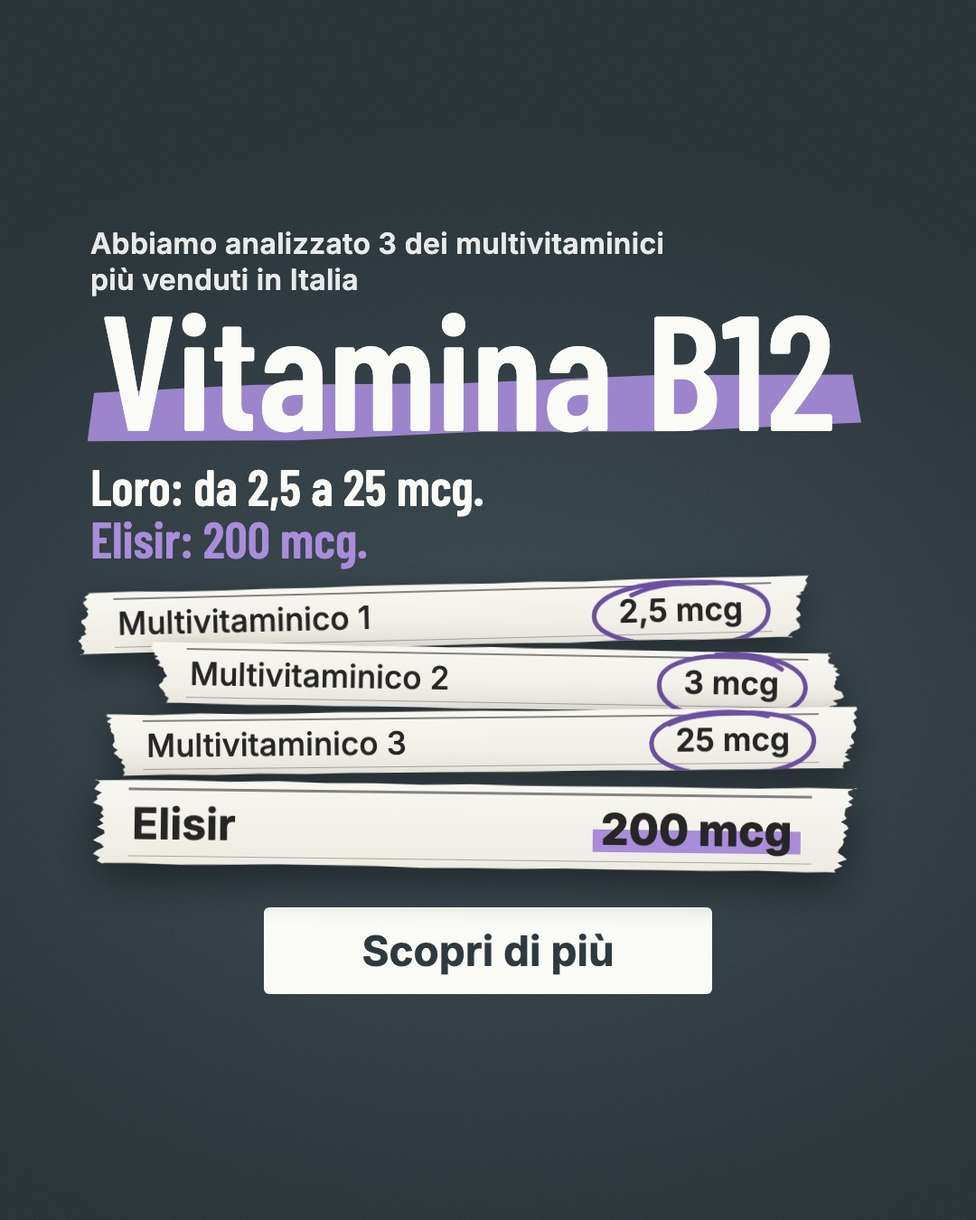
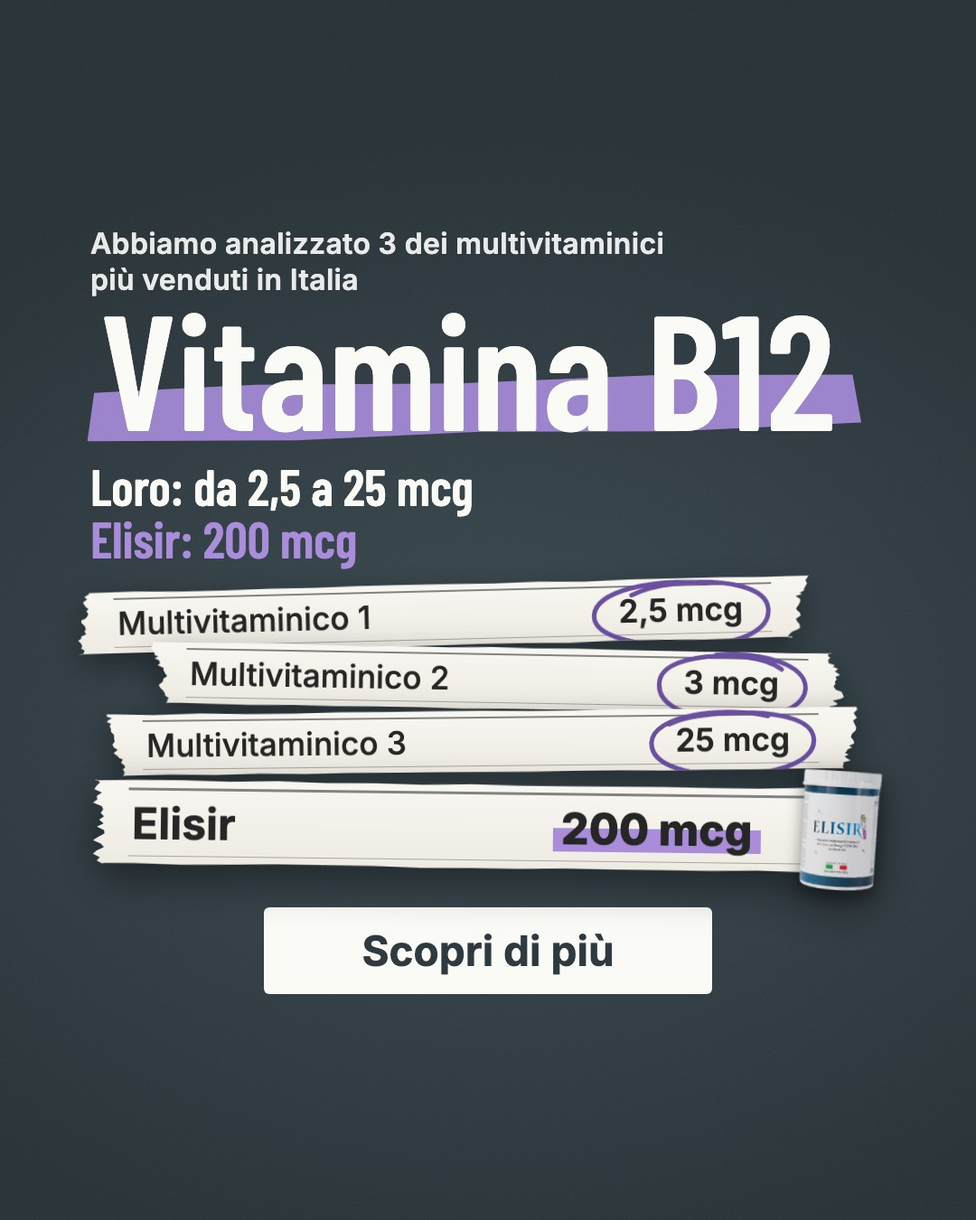
ads: batch #1007, terzo giro (serie senza punti e con barattolino, 222 con +900%, nuova #234)

Changed region(s): [[0.55, 0.6222, 0.9167, 0.7467]]

diff --git a/ads/batch-1007.html b/ads/batch-1007.html
@@ -5,13 +5,14 @@
 <meta name="viewport" content="width=device-width,initial-scale=1">
 <meta name="robots" content="noindex,nofollow">
 <title>Batch #1007 · Test Multinutrienti · Launch kit</title>
-<!-- batch-1007.html v4 · 2026-09-22 · launch kit del batch #1007 Test Multinutrienti.
-     Testi, titoli, descrizione e parametri URL presi da copy/testi-meta.md v1.5; hook, nomi ad e formati da 01-matrice.md v1.7.
+<!-- batch-1007.html v5 · 2026-09-22 · launch kit del batch #1007 Test Multinutrienti.
+     Testi, titoli, descrizione e parametri URL presi da copy/testi-meta.md v1.5; hook, nomi ad e formati da 01-matrice.md v1.8.
      Changelog:
        v1 · prima pubblicazione (FASE 5 Ads OS)
        v2 · 14 creatività #220-#233 con la serie loro/noi (221, 230-233), testi e titoli v1.5, hook e nomi ad della matrice v1.6, JPG rigenerati dai PNG finali
        v3 · anteprime più che raddoppiate (colonna da 230 a 540 px, pagina larga 1240 px), su richiesta di Andrea per leggerle bene
-       v4 · secondo giro di ritocchi di Andrea del 22/9 (matrice v1.7): hook in Title Case nelle card e nella tabella, riferimenti alla matrice portati a v1.7, look della #223 aggiornato (compresse sfocate nello zero, barattolo accanto), JPG 220-233 rigenerati dai PNG finali -->
+       v4 · secondo giro di ritocchi di Andrea del 22/9 (matrice v1.7): hook in Title Case nelle card e nella tabella, riferimenti alla matrice portati a v1.7, look della #223 aggiornato (compresse sfocate nello zero, barattolo accanto), JPG 220-233 rigenerati dai PNG finali
+       v5 · terzo giro di ritocchi di Andrea del 22/9 (matrice v1.8): nuova card #234 (altra versione della #227 con Vitamina D, C e biotina, 1:1, ad set cold) e sua riga in tabella; hook della serie loro/noi senza punti finali, con le righe separate da " / "; #222 col +900% di Vitamina D in Elisir; barattolino sulla quarta striscia della serie; conteggi portati a 15 creatività, 13 cold e 2 warm; affinità del testo A estesa alla #234; JPG 220-234 rigenerati dai PNG finali -->
 <style>
 
   :root{--ground:#F4EFE4;--panel:#FBF8F1;--panel-2:#F0E9D9;--ink:#1B1712;--muted:#6E6455;--faint:#928871;--line:#E4DBC7;--accent:#8B6F47;--ok:#5E7A53;--warn:#A0622D;--shadow:0 1px 2px rgba(27,23,18,.06),0 8px 24px rgba(27,23,18,.06)}
@@ -94,7 +95,7 @@
   <div class="eyebrow">Ads OS · Test Multinutrienti · Launch kit</div>
   <h1>Batch #1007</h1>
   <div class="status" style="color:var(--ok);background:color-mix(in srgb,var(--ok) 15%,transparent)">✓ Montato e verificato, pronto da caricare su Meta</div>
-  <p class="lede"><b>14 creatività (#220-#233): 12 cold solution aware e 2 warm.</b> Le 10 del set principale (#220-#229) hanno 10 sistemi grafici con font display mai usati; le 4 nuove (#230-#233) formano con la #221 la <b>serie loro/noi</b> (Magnesio, Vitamina C, Vitamina D, Vitamina B12, Omega-3): stessa grafica, un colore d’accento per ingrediente. Il cold parla a chi prende già un multivitaminico e gli mostra una cosa verificabile sull’etichetta del prodotto che usa ogni giorno; il bottone manda al confronto completo sulla landing bridge. Il prezzo entra solo nella #228, sul warm; la #229 porta l’offerta senza prezzo.</p>
+  <p class="lede"><b>15 creatività (#220-#234): 13 cold solution aware e 2 warm.</b> Le 10 del set principale (#220-#229) hanno 10 sistemi grafici con font display mai usati; le 4 nuove (#230-#233) formano con la #221 la <b>serie loro/noi</b> (Magnesio, Vitamina C, Vitamina D, Vitamina B12, Omega-3): stessa grafica, un colore d’accento per ingrediente, e il barattolino del prodotto che risponde sulla sua striscia. La <b>#234</b> è un’altra versione della #227, con la stessa grafica e altri tre ingredienti: Vitamina D, Vitamina C e biotina. Il cold parla a chi prende già un multivitaminico e gli mostra una cosa verificabile sull’etichetta del prodotto che usa ogni giorno; il bottone manda al confronto completo sulla landing bridge. Il prezzo entra solo nella #228, sul warm; la #229 porta l’offerta senza prezzo.</p>
   <div class="rules">
     <div class="rule"><b>Testo:</b> carica A + B + C + D + E su ogni inserzione</div>
     <div class="rule"><b>Titoli:</b> 5 + 1 descrizione, uguali per tutte</div>
@@ -107,7 +108,7 @@
 
 
   <h2>1 · Setup inserzione</h2>
-  <p class="sec-sub">Uguale su tutte e 14. Il nome inserzione è sulla card di ogni creatività (sezione 5) e arriva in <code>utm_content</code>.</p>
+  <p class="sec-sub">Uguale su tutte e 15. Il nome inserzione è sulla card di ogni creatività (sezione 5) e arriva in <code>utm_content</code>.</p>
   <div class="tb setup">
     <div class="meta-row" style="margin-top:0"><span class="flabel">CTA</span><span class="val"><b>Scopri di più</b></span><span class="sep"></span><span class="flabel">Destinazione</span><span class="val">la landing di confronto, non una pagina prodotto</span></div>
     <div class="meta-row" style="margin-top:0"><span class="flabel">URL di destinazione</span><code class="adname">https://paleocomplex.com/multinutrienti/</code><button class="cbtn sm" data-copy="https://paleocomplex.com/multinutrienti/">Copia URL</button></div>
@@ -116,7 +117,7 @@
     <div class="params" id="params">utm_source={{site_source_name}}&amp;utm_medium=paid&amp;utm_campaign={{campaign.name}}&amp;utm_term={{adset.name}}&amp;utm_content={{ad.name}}</div>
     <div class="sec-sub" style="margin:0">Nel campo "Parametri URL" dell’inserzione, al posto di quelli attuali.</div>
   </div>
-  <div class="notice"><b>Pubblici, proposta del brief:</b> campagna nuova dedicata al test. Ad set cold con #220-#227 e #230-#233 (12 creatività), clienti degli ultimi 180 giorni esclusi; ad set warm con #228-#229, visitatori ed engager recenti. 50 € al giorno complessivi. Con 12 cold la spesa per creatività si assottiglia, e la serie loro/noi Meta la tratterà con buona probabilità come un gruppo: si legge anche sommata.</div>
+  <div class="notice"><b>Pubblici, proposta del brief:</b> campagna nuova dedicata al test. Ad set cold con #220-#227 e #230-#234 (13 creatività), clienti degli ultimi 180 giorni esclusi; ad set warm con #228-#229, visitatori ed engager recenti. 50 € al giorno complessivi. Con 13 cold la spesa per creatività si assottiglia, e la serie loro/noi Meta la tratterà con buona probabilità come un gruppo, come la coppia #227 e #234: si leggono anche sommate.</div>
   <div class="notice warn"><b class="w">Prima del carico, esclusione acquirenti:</b> i testi v1.5 propongono di escludere <b>tutti gli acquirenti di sempre da entrambi gli ad set</b> (lista clienti WooCommerce, oppure evento Purchase sui 180 giorni). Gli hook di A, B e C parlano al "tuo multivitaminico", che per un nostro cliente è Paleocomplex o Elisir. Senza l’esclusione, A, B e C vanno riscritti senza il possessivo.</div>
 
 
@@ -125,7 +126,7 @@
   <div class="textbank">
     <div class="tb">
       <div class="tbh"><span class="name">Testo A</span><span class="tag">loro contro Elisir, voce per voce · quantità</span><button class="cbtn" data-src="tA">Copia A</button></div>
-      <div class="aff">Affinità: #220, #221, #222, #227, #228, #230, #231, #232 (ma si carica ovunque)</div>
+      <div class="aff">Affinità: #220, #221, #222, #227, #228, #230, #231, #232, #234 (ma si carica ovunque)</div>
       <div class="ftext" id="tA">Vitamine e minerali nel tuo multivitaminico ci sono. Resta da vedere in che quantità.
 
 Abbiamo messo tre multivitaminici da farmacia molto diffusi accanto a Elisir, il più completo dei nostri Multinutrienti:
@@ -227,7 +228,7 @@ Prima di scegliere, sulla pagina trovi il confronto con tre multivitaminici da f
   </div>
 
   <h2>3 · Titoli e descrizione (set unico per TUTTE le inserzioni)</h2>
-  <p class="sec-sub">5 titoli su 5 assi diversi (categoria, prova, contenuto detto come dubbio, gamma, offerta come regalo), tutti sotto i 40 caratteri e diversi da #1003, #1005 e dagli hook #220-#233. Nessuno nomina il massimo di legge. Una sola descrizione. Carica tutto su ogni inserzione.</p>
+  <p class="sec-sub">5 titoli su 5 assi diversi (categoria, prova, contenuto detto come dubbio, gamma, offerta come regalo), tutti sotto i 40 caratteri e diversi da #1003, #1005 e dagli hook #220-#234. Nessuno nomina il massimo di legge. Una sola descrizione. Carica tutto su ogni inserzione.</p>
   <div class="tb">
     <div class="titoli" style="gap:9px">
       <span class="tt">Dal multivitaminico al Multinutriente <button class="cbtn sm" data-copy="Dal multivitaminico al Multinutriente">Copia</button></span>
@@ -239,15 +240,15 @@ Prima di scegliere, sulla pagina trovi il confronto con tre multivitaminici da f
     <div class="meta-row" style="margin-top:14px"><span class="flabel">Descrizione (una sola)</span><span class="val">Guarda il confronto, poi scegli</span><button class="cbtn sm" data-copy="Guarda il confronto, poi scegli">Copia</button></div>
   </div>
 
-  <h2>4 · La matrice (v1.7: nessuna riga tagliata, testo rivisto il 21/9 e ritoccato il 22/9, serie loro/noi)</h2>
-  <p class="sec-sub">Quattro famiglie di rivelazione: loro contro noi con un numero di prodotto (221 e la serie 230-233, 224, 227), il verdetto (220, 222), cosa manca (223, 226, 233), la forma (225). Il prezzo solo nel warm (228); la 229 porta l’offerta senza prezzo. Chi risponde: Elisir in 221, 226, 227, 231, 232 e 233; Essentiel in 224 e 230; Paleocomplex senza numero in 223; la categoria in 225; 220 e 222 lasciano la risposta alla landing. Due coppie sullo stesso fatto misurano se conviene rispondere nell’ad: 222 e 231 (Vitamina D), 223 e 233 (Omega-3). Le righe seguono la numerazione: la serie aggiunta il 21/9 sta in coda, dopo le due warm.</p>
+  <h2>4 · La matrice (v1.8: nessuna riga tagliata, testo rivisto il 21/9 e ritoccato due volte il 22/9, serie loro/noi e #234)</h2>
+  <p class="sec-sub">Quattro famiglie di rivelazione: loro contro noi con un numero di prodotto (221 e la serie 230-233, 224, 227 e 234), il verdetto (220, 222), cosa manca (223, 226, 233), la forma (225). Il prezzo solo nel warm (228); la 229 porta l’offerta senza prezzo. Chi risponde: Elisir in 221, 222, 226, 227, 231, 232, 233 e 234; Essentiel in 224 e 230; Paleocomplex senza numero in 223; la categoria in 225; solo 220 lascia la risposta alla landing. Coppie sullo stesso fatto: 222 e 231 (Vitamina D, verdetto con la differenza contro loro/noi), 223 e 233 (Omega-3, senza numero contro con il numero); 227 e 234 hanno la stessa grafica e ingredienti diversi. Le righe seguono la numerazione: la serie aggiunta il 21/9 e la 234 del 22/9 stanno in coda, dopo le due warm.</p>
   <div class="tablewrap">
     <table class="grid-t">
       <thead><tr><th>#</th><th>Awareness</th><th>Hook</th><th>Look</th><th>Formato</th></tr></thead>
       <tbody>
         <tr><td class="cnum">#220</td><td><span class="aw">Solution</span></td><td class="hookcell">&quot;Scopri Se Il Tuo Multivitaminico È Sottodimensionato.&quot;</td><td class="tcol">Solo tipografia, Newsreader su giallo pieno, risposta sulla landing</td><td class="tcol" style="white-space:nowrap">9:16 · 1080×1920</td></tr>
-        <tr><td class="cnum">#221</td><td><span class="aw">Solution</span></td><td class="hookcell">&quot;Magnesio. Loro: da 80 a 120 mg. Elisir: 450 mg.&quot;</td><td class="tcol">Strisce bianche su ardesia, Barlow Condensed, accento corallo, risponde Elisir</td><td class="tcol" style="white-space:nowrap">4:5 · 1080×1350</td></tr>
-        <tr><td class="cnum">#222</td><td><span class="aw">Solution</span></td><td class="hookcell">&quot;I Multivitaminici Comuni Sono Sottodosati.&quot;</td><td class="tcol">Foto img-08, 100% grigio in Rubik, risposta sulla landing</td><td class="tcol" style="white-space:nowrap">4:5 · 1080×1350</td></tr>
+        <tr><td class="cnum">#221</td><td><span class="aw">Solution</span></td><td class="hookcell">&quot;Magnesio / Loro: da 80 a 120 mg / Elisir: 450 mg&quot;</td><td class="tcol">Strisce bianche su ardesia, Barlow Condensed, accento corallo, barattolino di Elisir, risponde Elisir</td><td class="tcol" style="white-space:nowrap">4:5 · 1080×1350</td></tr>
+        <tr><td class="cnum">#222</td><td><span class="aw">Solution</span></td><td class="hookcell">&quot;I Multivitaminici Comuni Sono Sottodosati.&quot;</td><td class="tcol">Foto img-08, +900% di Vitamina D in Rubik, risponde Elisir</td><td class="tcol" style="white-space:nowrap">4:5 · 1080×1350</td></tr>
         <tr><td class="cnum">#223</td><td><span class="aw">Solution</span></td><td class="hookcell">&quot;Omega-3: Neanche Un Milligrammo.&quot;</td><td class="tcol">Zero bronzo su blu petrolio con le compresse sfocate dentro, Gloock, Paleocomplex accanto</td><td class="tcol" style="white-space:nowrap">4:5 · 1080×1350</td></tr>
         <tr><td class="cnum">#224</td><td><span class="aw">Solution</span></td><td class="hookcell">&quot;Coenzima Q10: 4,5 mg Contro 100.&quot;</td><td class="tcol">Cerchi in proporzione su prugna, Zilla Slab, risponde Essentiel</td><td class="tcol" style="white-space:nowrap">1:1 · 1080×1080</td></tr>
         <tr><td class="cnum">#225</td><td><span class="aw">Solution</span></td><td class="hookcell">&quot;Gira La Confezione Del Tuo Multivitaminico E Cerca Queste Due Parole.&quot;</td><td class="tcol">Scena AI, mani e scatola da farmacia senza marchi, Public Sans</td><td class="tcol" style="white-space:nowrap">9:16 · 1080×1920</td></tr>
@@ -255,16 +256,17 @@ Prima di scegliere, sulla pagina trovi il confronto con tre multivitaminici da f
         <tr><td class="cnum">#227</td><td><span class="aw">Solution</span></td><td class="hookcell">&quot;Vitamina E, B6 E Manganese Ci Sono. Ma Col Contagocce.&quot;</td><td class="tcol">Lista a barre su paper, Red Hat Display, risponde Elisir</td><td class="tcol" style="white-space:nowrap">1:1 · 1080×1080</td></tr>
         <tr><td class="cnum">#228</td><td><span class="aw">Product</span></td><td class="hookcell">&quot;Sì, Costa Molte Volte Più Di Un Multivitaminico Da Farmacia.&quot;</td><td class="tcol">Syne su oro pieno, barattolo di Elisir grande, 139 €</td><td class="tcol" style="white-space:nowrap">9:16 · 1080×1920</td></tr>
         <tr><td class="cnum">#229</td><td><span class="aw">Most aware</span></td><td class="hookcell">&quot;Provalo Con 35 € Di Regali.&quot;</td><td class="tcol">Foto img-06 con Elisir, card coupon PRIMOORDINE, nessun prezzo</td><td class="tcol" style="white-space:nowrap">4:5 · 1080×1350</td></tr>
-        <tr><td class="cnum">#230</td><td><span class="aw">Solution</span></td><td class="hookcell">&quot;Vitamina C. Loro: da 100 a 180 mg. Essentiel: 1.000 mg.&quot;</td><td class="tcol">Serie loro/noi come la 221, accento arancio, risponde Essentiel</td><td class="tcol" style="white-space:nowrap">4:5 · 1080×1350</td></tr>
-        <tr><td class="cnum">#231</td><td><span class="aw">Solution</span></td><td class="hookcell">&quot;Vitamina D. Loro: dal 100 al 200%. Elisir: 1.000%.&quot;</td><td class="tcol">Serie loro/noi come la 221, accento giallo, risponde Elisir</td><td class="tcol" style="white-space:nowrap">4:5 · 1080×1350</td></tr>
-        <tr><td class="cnum">#232</td><td><span class="aw">Solution</span></td><td class="hookcell">&quot;Vitamina B12. Loro: da 2,5 a 25 mcg. Elisir: 200 mcg.&quot;</td><td class="tcol">Serie loro/noi come la 221, accento viola, risponde Elisir</td><td class="tcol" style="white-space:nowrap">4:5 · 1080×1350</td></tr>
-        <tr><td class="cnum">#233</td><td><span class="aw">Solution</span></td><td class="hookcell">&quot;Omega-3. Loro: assenti. Elisir: 1.050 mg.&quot;</td><td class="tcol">Serie loro/noi come la 221, accento azzurro, risponde Elisir</td><td class="tcol" style="white-space:nowrap">4:5 · 1080×1350</td></tr>
+        <tr><td class="cnum">#230</td><td><span class="aw">Solution</span></td><td class="hookcell">&quot;Vitamina C / Loro: da 100 a 180 mg / Essentiel: 1.000 mg&quot;</td><td class="tcol">Serie loro/noi come la 221, accento arancio, barattolino di Essentiel, risponde Essentiel</td><td class="tcol" style="white-space:nowrap">4:5 · 1080×1350</td></tr>
+        <tr><td class="cnum">#231</td><td><span class="aw">Solution</span></td><td class="hookcell">&quot;Vitamina D / Loro: dal 100 al 200% / Elisir: 1.000%&quot;</td><td class="tcol">Serie loro/noi come la 221, accento giallo, barattolino di Elisir, risponde Elisir</td><td class="tcol" style="white-space:nowrap">4:5 · 1080×1350</td></tr>
+        <tr><td class="cnum">#232</td><td><span class="aw">Solution</span></td><td class="hookcell">&quot;Vitamina B12 / Loro: da 2,5 a 25 mcg / Elisir: 200 mcg&quot;</td><td class="tcol">Serie loro/noi come la 221, accento viola, barattolino di Elisir, risponde Elisir</td><td class="tcol" style="white-space:nowrap">4:5 · 1080×1350</td></tr>
+        <tr><td class="cnum">#233</td><td><span class="aw">Solution</span></td><td class="hookcell">&quot;Omega-3 / Loro: assenti / Elisir: 1.050 mg&quot;</td><td class="tcol">Serie loro/noi come la 221, accento azzurro, barattolino di Elisir, risponde Elisir</td><td class="tcol" style="white-space:nowrap">4:5 · 1080×1350</td></tr>
+        <tr><td class="cnum">#234</td><td><span class="aw">Solution</span></td><td class="hookcell">&quot;Vitamina D, C E Biotina Ci Sono. Ma Col Contagocce.&quot;</td><td class="tcol">Come la 227: lista a barre su paper, Red Hat Display, risponde Elisir</td><td class="tcol" style="white-space:nowrap">1:1 · 1080×1080</td></tr>
       </tbody>
     </table>
   </div>
 
   <h2>5 · Le creatività</h2>
-  <p class="sec-sub">14 definitive, renderizzate e verificate (matrice v1.7, ritocchi di Andrea del 22/9). Clic sull’immagine per la piena risoluzione, Scarica per il download. Su Meta: 5 testi + i 5 titoli + la descrizione unica + CTA Scopri di più + URL pulito e parametri. Rispetto alla prima versione del kit cambiano i nomi ad di #221, #222 e #227.</p>
+  <p class="sec-sub">15 definitive, renderizzate e verificate (matrice v1.8, due giri di ritocchi di Andrea del 22/9). La #228 ha ancora il testo del secondo giro: quello nuovo si approva in chat prima del carico. Clic sull’immagine per la piena risoluzione, Scarica per il download. Su Meta: 5 testi + i 5 titoli + la descrizione unica + CTA Scopri di più + URL pulito e parametri. Rispetto alla prima versione del kit cambiano i nomi ad di #221, #222 e #227.</p>
   <div class="kits">
     <div class="kit">
       <div class="thumb"><a href="img/1007/220.jpg" target="_blank"><img src="img/1007/220.jpg" alt="#220" loading="lazy"></a><a class="dl" href="img/1007/220.jpg" download="220_multinutrienti_sottodimensionato_1080x1920.jpg">&#11015; Scarica immagine</a></div>
@@ -281,7 +283,7 @@ Prima di scegliere, sulla pagina trovi il confronto con tre multivitaminici da f
       <div class="thumb"><a href="img/1007/221.jpg" target="_blank"><img src="img/1007/221.jpg" alt="#221" loading="lazy"></a><a class="dl" href="img/1007/221.jpg" download="221_multinutrienti_strisce-magnesio_1080x1350.jpg">&#11015; Scarica immagine</a></div>
       <div class="fields">
         <div class="fhead"><span class="num">#221</span><span class="chip cold">Cold</span><span class="chip">Solution</span><span class="chip">Serie loro/noi · Magnesio (modello)</span></div>
-        <div class="hookcell" style="min-width:0">&quot;Magnesio. Loro: da 80 a 120 mg. Elisir: 450 mg.&quot;</div>
+        <div class="hookcell" style="min-width:0">&quot;Magnesio / Loro: da 80 a 120 mg / Elisir: 450 mg&quot;</div>
         <div class="meta-row" style="margin-top:2px"><span class="flabel">Nome ad</span><code class="adname">221 | static | m+40 magnesio loro noi</code><button class="cbtn sm" data-copy="221 | static | m+40 magnesio loro noi">Copia</button></div>
         <div class="meta-row"><span class="flabel">Formato</span><span class="val">static · 4:5 · 1080×1350</span></div>
         <div class="meta-row"><span class="flabel">Testo principale (tutti e 5)</span><button class="cbtn sm" data-src="tA">Copia A</button><button class="cbtn sm" data-src="tB">Copia B</button><button class="cbtn sm" data-src="tC">Copia C</button><button class="cbtn sm" data-src="tD">Copia D</button><button class="cbtn sm" data-src="tE">Copia E</button></div>
@@ -380,7 +382,7 @@ Prima di scegliere, sulla pagina trovi il confronto con tre multivitaminici da f
       <div class="thumb"><a href="img/1007/230.jpg" target="_blank"><img src="img/1007/230.jpg" alt="#230" loading="lazy"></a><a class="dl" href="img/1007/230.jpg" download="230_multinutrienti_vitamina-c-loro-noi_1080x1350.jpg">&#11015; Scarica immagine</a></div>
       <div class="fields">
         <div class="fhead"><span class="num">#230</span><span class="chip cold">Cold</span><span class="chip">Solution</span><span class="chip">Serie loro/noi · Vitamina C</span></div>
-        <div class="hookcell" style="min-width:0">&quot;Vitamina C. Loro: da 100 a 180 mg. Essentiel: 1.000 mg.&quot;</div>
+        <div class="hookcell" style="min-width:0">&quot;Vitamina C / Loro: da 100 a 180 mg / Essentiel: 1.000 mg&quot;</div>
         <div class="meta-row" style="margin-top:2px"><span class="flabel">Nome ad</span><code class="adname">230 | static | w+35 vitamina c loro noi</code><button class="cbtn sm" data-copy="230 | static | w+35 vitamina c loro noi">Copia</button></div>
         <div class="meta-row"><span class="flabel">Formato</span><span class="val">static · 4:5 · 1080×1350</span></div>
         <div class="meta-row"><span class="flabel">Testo principale (tutti e 5)</span><button class="cbtn sm" data-src="tA">Copia A</button><button class="cbtn sm" data-src="tB">Copia B</button><button class="cbtn sm" data-src="tC">Copia C</button><button class="cbtn sm" data-src="tD">Copia D</button><button class="cbtn sm" data-src="tE">Copia E</button></div>
@@ -391,7 +393,7 @@ Prima di scegliere, sulla pagina trovi il confronto con tre multivitaminici da f
       <div class="thumb"><a href="img/1007/231.jpg" target="_blank"><img src="img/1007/231.jpg" alt="#231" loading="lazy"></a><a class="dl" href="img/1007/231.jpg" download="231_multinutrienti_vitamina-d-loro-noi_1080x1350.jpg">&#11015; Scarica immagine</a></div>
       <div class="fields">
         <div class="fhead"><span class="num">#231</span><span class="chip cold">Cold</span><span class="chip">Solution</span><span class="chip">Serie loro/noi · Vitamina D</span></div>
-        <div class="hookcell" style="min-width:0">&quot;Vitamina D. Loro: dal 100 al 200%. Elisir: 1.000%.&quot;</div>
+        <div class="hookcell" style="min-width:0">&quot;Vitamina D / Loro: dal 100 al 200% / Elisir: 1.000%&quot;</div>
         <div class="meta-row" style="margin-top:2px"><span class="flabel">Nome ad</span><code class="adname">231 | static | gen+40 vitamina d loro noi</code><button class="cbtn sm" data-copy="231 | static | gen+40 vitamina d loro noi">Copia</button></div>
         <div class="meta-row"><span class="flabel">Formato</span><span class="val">static · 4:5 · 1080×1350</span></div>
         <div class="meta-row"><span class="flabel">Testo principale (tutti e 5)</span><button class="cbtn sm" data-src="tA">Copia A</button><button class="cbtn sm" data-src="tB">Copia B</button><button class="cbtn sm" data-src="tC">Copia C</button><button class="cbtn sm" data-src="tD">Copia D</button><button class="cbtn sm" data-src="tE">Copia E</button></div>
@@ -402,7 +404,7 @@ Prima di scegliere, sulla pagina trovi il confronto con tre multivitaminici da f
       <div class="thumb"><a href="img/1007/232.jpg" target="_blank"><img src="img/1007/232.jpg" alt="#232" loading="lazy"></a><a class="dl" href="img/1007/232.jpg" download="232_multinutrienti_vitamina-b12-loro-noi_1080x1350.jpg">&#11015; Scarica immagine</a></div>
       <div class="fields">
         <div class="fhead"><span class="num">#232</span><span class="chip cold">Cold</span><span class="chip">Solution</span><span class="chip">Serie loro/noi · Vitamina B12</span></div>
-        <div class="hookcell" style="min-width:0">&quot;Vitamina B12. Loro: da 2,5 a 25 mcg. Elisir: 200 mcg.&quot;</div>
+        <div class="hookcell" style="min-width:0">&quot;Vitamina B12 / Loro: da 2,5 a 25 mcg / Elisir: 200 mcg&quot;</div>
         <div class="meta-row" style="margin-top:2px"><span class="flabel">Nome ad</span><code class="adname">232 | static | m+50 vitamina b12 loro noi</code><button class="cbtn sm" data-copy="232 | static | m+50 vitamina b12 loro noi">Copia</button></div>
         <div class="meta-row"><span class="flabel">Formato</span><span class="val">static · 4:5 · 1080×1350</span></div>
         <div class="meta-row"><span class="flabel">Testo principale (tutti e 5)</span><button class="cbtn sm" data-src="tA">Copia A</button><button class="cbtn sm" data-src="tB">Copia B</button><button class="cbtn sm" data-src="tC">Copia C</button><button class="cbtn sm" data-src="tD">Copia D</button><button class="cbtn sm" data-src="tE">Copia E</button></div>
@@ -413,9 +415,20 @@ Prima di scegliere, sulla pagina trovi il confronto con tre multivitaminici da f
       <div class="thumb"><a href="img/1007/233.jpg" target="_blank"><img src="img/1007/233.jpg" alt="#233" loading="lazy"></a><a class="dl" href="img/1007/233.jpg" download="233_multinutrienti_omega3-loro-noi_1080x1350.jpg">&#11015; Scarica immagine</a></div>
       <div class="fields">
         <div class="fhead"><span class="num">#233</span><span class="chip cold">Cold</span><span class="chip">Solution</span><span class="chip">Serie loro/noi · Omega-3</span></div>
-        <div class="hookcell" style="min-width:0">&quot;Omega-3. Loro: assenti. Elisir: 1.050 mg.&quot;</div>
+        <div class="hookcell" style="min-width:0">&quot;Omega-3 / Loro: assenti / Elisir: 1.050 mg&quot;</div>
         <div class="meta-row" style="margin-top:2px"><span class="flabel">Nome ad</span><code class="adname">233 | static | gen+45 omega-3 loro noi</code><button class="cbtn sm" data-copy="233 | static | gen+45 omega-3 loro noi">Copia</button></div>
         <div class="meta-row"><span class="flabel">Formato</span><span class="val">static · 4:5 · 1080×1350</span></div>
+        <div class="meta-row"><span class="flabel">Testo principale (tutti e 5)</span><button class="cbtn sm" data-src="tA">Copia A</button><button class="cbtn sm" data-src="tB">Copia B</button><button class="cbtn sm" data-src="tC">Copia C</button><button class="cbtn sm" data-src="tD">Copia D</button><button class="cbtn sm" data-src="tE">Copia E</button></div>
+        <div class="meta-row"><span class="flabel">Titoli e descrizione</span><span class="val">set unico, sezione 3</span><span class="sep"></span><span class="flabel">CTA</span><span class="val"><b>Scopri di più</b></span><button class="cbtn sm" data-copy="https://paleocomplex.com/multinutrienti/">Copia URL</button><button class="cbtn sm" data-copy="utm_source={{site_source_name}}&amp;utm_medium=paid&amp;utm_campaign={{campaign.name}}&amp;utm_term={{adset.name}}&amp;utm_content={{ad.name}}">Copia parametri</button></div>
+      </div>
+    </div>
+    <div class="kit">
+      <div class="thumb"><a href="img/1007/234.jpg" target="_blank"><img src="img/1007/234.jpg" alt="#234" loading="lazy"></a><a class="dl" href="img/1007/234.jpg" download="234_multinutrienti_d-c-biotina-contagocce_1080x1080.jpg">&#11015; Scarica immagine</a></div>
+      <div class="fields">
+        <div class="fhead"><span class="num">#234</span><span class="chip cold">Cold</span><span class="chip">Solution</span><span class="chip">Barre · D, C e biotina col contagocce</span></div>
+        <div class="hookcell" style="min-width:0">&quot;Vitamina D, C E Biotina Ci Sono. Ma Col Contagocce.&quot;</div>
+        <div class="meta-row" style="margin-top:2px"><span class="flabel">Nome ad</span><code class="adname">234 | static | w+40 col contagocce d c biotina</code><button class="cbtn sm" data-copy="234 | static | w+40 col contagocce d c biotina">Copia</button></div>
+        <div class="meta-row"><span class="flabel">Formato</span><span class="val">static · 1:1 · 1080×1080</span></div>
         <div class="meta-row"><span class="flabel">Testo principale (tutti e 5)</span><button class="cbtn sm" data-src="tA">Copia A</button><button class="cbtn sm" data-src="tB">Copia B</button><button class="cbtn sm" data-src="tC">Copia C</button><button class="cbtn sm" data-src="tD">Copia D</button><button class="cbtn sm" data-src="tE">Copia E</button></div>
         <div class="meta-row"><span class="flabel">Titoli e descrizione</span><span class="val">set unico, sezione 3</span><span class="sep"></span><span class="flabel">CTA</span><span class="val"><b>Scopri di più</b></span><button class="cbtn sm" data-copy="https://paleocomplex.com/multinutrienti/">Copia URL</button><button class="cbtn sm" data-copy="utm_source={{site_source_name}}&amp;utm_medium=paid&amp;utm_campaign={{campaign.name}}&amp;utm_term={{adset.name}}&amp;utm_content={{ad.name}}">Copia parametri</button></div>
       </div>
@@ -424,16 +437,16 @@ Prima di scegliere, sulla pagina trovi il confronto con tre multivitaminici da f
 
   <h2>6 · Checklist pre-carico</h2>
   <div class="next">
-    <div class="step"><h3>1. Campagna e ad set</h3><p>Campagna nuova dedicata al test: ad set cold con #220-#227 e #230-#233 (12 creatività), ad set warm con #228-#229. 50 € al giorno complessivi.</p></div>
+    <div class="step"><h3>1. Campagna e ad set</h3><p>Campagna nuova dedicata al test: ad set cold con #220-#227 e #230-#234 (13 creatività), ad set warm con #228-#229. 50 € al giorno complessivi.</p></div>
     <div class="step"><h3>2. Esclusione acquirenti</h3><p>Proposta dei testi v1.5: tutti gli acquirenti esclusi da entrambi gli ad set. Senza, gli hook dei testi A, B e C vanno riscritti prima del carico.</p></div>
     <div class="step"><h3>3. Ads vecchie ✓</h3><p>Restano tutte accese, compresi #1003 e #1005. Niente da mettere in pausa.</p></div>
     <div class="step"><h3>4. Landing ✓</h3><p>Ricontrollata il 21/9 per i testi v1.5: HTTP 200 senza redirect, valori dei testi in pagina. Cache per <code>utm_id</code> sistemata il 21/9.</p></div>
     <div class="step"><h3>5. I tre 9:16</h3><p>#220, #225 e #228: il testo sta dentro il ritaglio 4:5 del Feed, ma il ritaglio va controllato nell’anteprima di Ads Manager.</p></div>
     <div class="step"><h3>6. Dopo il carico</h3><p>ID Meta di ogni inserzione nella colonna "Meta ad ID" del registro. Sul primo ordine: <code>utm_content</code> intero, con le barre verticali del nome ad.</p></div>
-    <div class="step"><h3>7. Serie loro/noi</h3><p>#221 e #230-#233 hanno la stessa grafica per scelta, cambia solo il colore d’accento: Meta può trattarle come un gruppo. Si leggono sommando spesa e CAC delle cinque, poi guardando quale ingrediente prende spesa.</p></div>
+    <div class="step"><h3>7. Serie loro/noi</h3><p>#221 e #230-#233 hanno la stessa grafica per scelta, cambia solo il colore d’accento: Meta può trattarle come un gruppo. Si leggono sommando spesa e CAC delle cinque, poi guardando quale ingrediente prende spesa. Lo stesso vale per la coppia #227 e #234, stessa grafica e ingredienti diversi.</p></div>
   </div>
 
-  <footer>Ads OS · Paleocomplex · Batch #1007 Test Multinutrienti · matrice v1.7 del 22/09 e testi v1.5 del 21/09 · <a href="batch-1006.html">← #1006 Jeunesse V2</a> · <a href="batch-1005.html">#1005 Elisir</a> · <a href="batch-1004.html">#1004 Youth</a> · <a href="batch-1003.html">#1003 Paleocomplex</a></footer>
+  <footer>Ads OS · Paleocomplex · Batch #1007 Test Multinutrienti · matrice v1.8 del 22/09 e testi v1.5 del 21/09 · <a href="batch-1006.html">← #1006 Jeunesse V2</a> · <a href="batch-1005.html">#1005 Elisir</a> · <a href="batch-1004.html">#1004 Youth</a> · <a href="batch-1003.html">#1003 Paleocomplex</a></footer>
 </div>
 <script>
   function flash(btn,label){var o=btn.getAttribute('data-lbl')||btn.textContent;btn.setAttribute('data-lbl',o);btn.textContent=label;btn.classList.add('done');setTimeout(function(){btn.textContent=o;btn.classList.remove('done')},1300);}

diff --git a/ads/index.html b/ads/index.html
@@ -27,7 +27,7 @@
 <div class="wrap">
   <div class="eyebrow">Ads OS · Paleocomplex</div>
   <h1>Batch</h1>
-  <a class="card" href="batch-1007.html"><span><span class="t">#1007 · Test Multinutrienti</span><span class="d">14 creatività #220-#233 · 12 cold solution aware + 2 warm · serie loro/noi su 5 ingredienti · landing bridge /multinutrienti/</span></span><span class="badge live">Pronto da caricare</span></a>
+  <a class="card" href="batch-1007.html"><span><span class="t">#1007 · Test Multinutrienti</span><span class="d">15 creatività #220-#234 · 13 cold solution aware + 2 warm · serie loro/noi su 5 ingredienti · landing bridge /multinutrienti/</span></span><span class="badge live">Pronto da caricare</span></a>
   <a class="card" href="batch-1006.html"><span><span class="t">#1006 — Jeunesse V2</span><span class="d">10 creatività #210-#219 · kilodalton, studio clinico, ciglia · primo offer-first banner</span></span><span class="badge live">Pronto da caricare</span></a>
   <a class="card" href="batch-1005.html"><span><span class="t">#1005 — Elisir</span><span class="d">9 creatività #200-#208 renderizzate · own the objection "Sì, è caro" · 9 look distinti</span></span><span class="badge live">Pronto da caricare</span></a>
   <a class="card" href="batch-1004.html"><span><span class="t">#1004 — Youth</span><span class="d">10 creatività #190-#199 renderizzate · articolazioni + pelle · 3 testi verificati</span></span><span class="badge live">Pronto da caricare</span></a>
